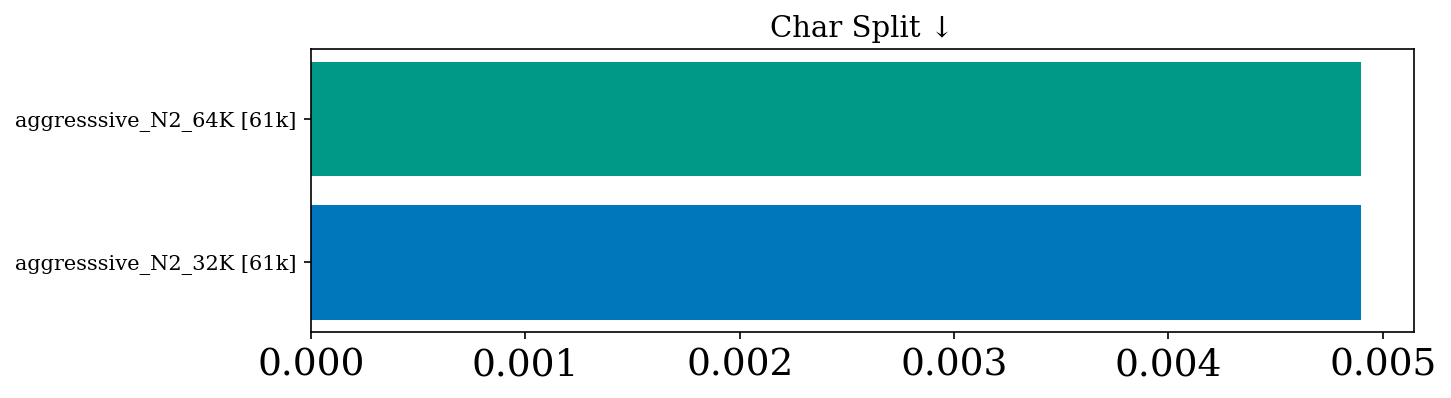
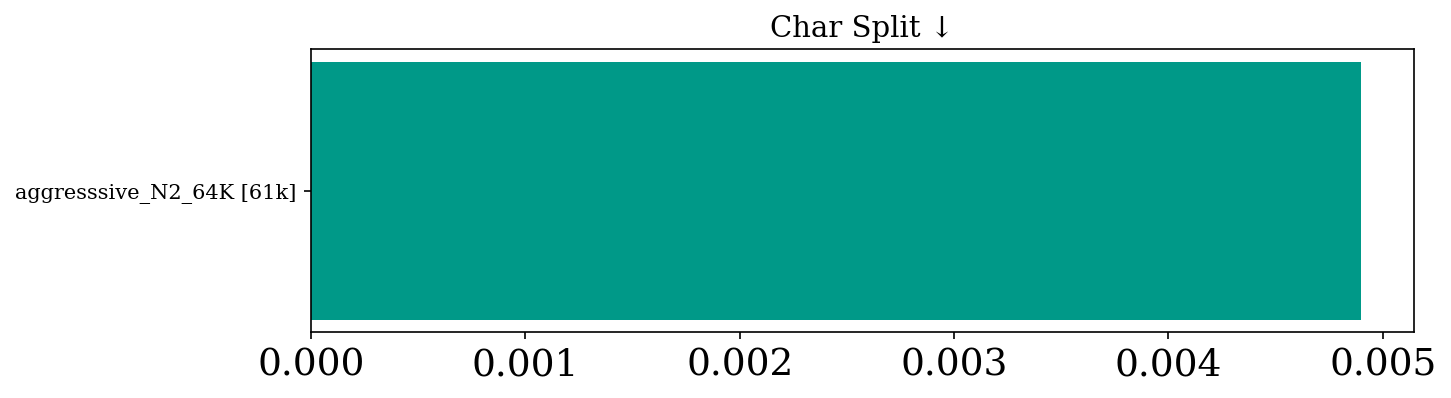
Update RESULTS_flores+_lines.md (2026-03-06 10:01:17)

Changed region(s): [[0.0, 0.4221, 0.9614, 0.8141], [0.0, 0.2714, 0.2171, 0.3317]]

diff --git a/RESULTS_flores+_lines.md b/RESULTS_flores+_lines.md
@@ -1,40 +1,41 @@
 # Tokenizer Evaluation Results
 
-_Last updated: 2026-03-06 09:44:40_
+_Last updated: 2026-03-06 10:01:18_
 
-| Tokenizer | Vocab Size | Fertility | Compression Rate | Vocab Util. | Avg Token Rank | Gini | 3-Digit Align. F1 | Op. Isolation | UTF-8 Integ. | Char Split | Languages | TTR | Shannon Entropy | Dataset | User | Date | AST Align. | Ident. Frag. | Depth Corr. | Pat. Stability | Bound. Cross |
+| Tokenizer | Vocab Size | Fertility ↓ | Compression Rate ↑ | Vocab Util. ↑ | Avg Token Rank ↓ | Gini ↓ | 3-Digit Align. F1 ↑ | Op. Isolation ↑ | UTF-8 Integ. ↑ | Char Split ↓ | Languages | Dataset | User | Date | TTR | Shannon Entropy | AST Align. ↑ | Ident. Frag. ↓ | Depth Corr. ↑ | Pat. Stability ↑ | Bound. Cross |
 | --- | --- | --- | --- | --- | --- | --- | --- | --- | --- | --- | --- | --- | --- | --- | --- | --- | --- | --- | --- | --- | --- |
-| Boundless pairwise aggressive n2 (dkletz, flores+) | 5,033 | 88.335 | 0.013 | 0.644 | 108.7 | 0.082 | --- | 0.047 | --- | --- | 92 | 0.0004 | 7.19 | flores+ | dkletz | 2026-02-22 | --- | --- | --- | --- | --- |
-| Apertus (cmeister747, flores+) | 131,072 | 64.763 | 0.023 | 0.564 | 4318.1 | 0.308 | 0.363 | 0.185 | --- | --- | 92 | 0.0124 | 11.57 | flores+ | cmeister747 | 2026-02-22 | --- | --- | --- | --- | --- |
-| Parity-aware (hybrid) (cmeister747, flores+) | 128,004 | 58.267 | 0.022 | 0.691 | 4640.4 | 0.223 | 0.741 | 0.224 | --- | --- | 92 | 0.0166 | 12.19 | flores+ | cmeister747 | 2026-02-22 | --- | --- | --- | --- | --- |
-| SuperBPE a (cmeister747, flores+) | 130,000 | 46.224 | 0.025 | 0.553 | 9333.4 | 0.106 | 0.767 | 0.339 | --- | --- | 92 | 0.0170 | 14.02 | flores+ | cmeister747 | 2026-02-22 | --- | --- | --- | --- | --- |
-| SuperBPE b (cmeister747, flores+) | 130,000 | 52.158 | 0.024 | 0.593 | 7591.0 | 0.192 | 0.767 | 0.982 | --- | --- | 92 | 0.0161 | 13.28 | flores+ | cmeister747 | 2026-02-22 | --- | --- | --- | --- | --- |
-| PA BPE grouped (cmeister747, flores+) | 120,260 | 47.187 | 0.024 | 0.632 | 8240.1 | 0.064 | 0.700 | 0.224 | --- | --- | 92 | 0.0176 | 13.41 | flores+ | cmeister747 | 2026-02-22 | --- | --- | --- | --- | --- |
-| Qwen 3 (151k) (cmeister747, flores+) | 151,669 | 75.897 | 0.020 | 0.324 | 1699.6 | 0.312 | 0.363 | 0.497 | --- | --- | 92 | 0.0071 | 11.05 | flores+ | cmeister747 | 2026-02-22 | --- | --- | --- | --- | --- |
-| DeepSeek R1 (cmeister747, flores+) | 128,815 | 61.674 | 0.021 | 0.418 | 2910.0 | 0.232 | 0.767 | 0.481 | --- | --- | 92 | 0.0095 | 12.13 | flores+ | cmeister747 | 2026-02-22 | --- | --- | --- | --- | --- |
-| Kimi (160k) (cmeister747, flores+) | 163,840 | 62.820 | 0.020 | 0.244 | 2283.0 | 0.199 | 0.767 | 0.466 | --- | --- | 92 | 0.0069 | 12.09 | flores+ | cmeister747 | 2026-02-22 | --- | --- | --- | --- | --- |
-| GLM (151k) (cmeister747, flores+) | 151,343 | 86.320 | 0.019 | 0.364 | 1631.6 | 0.372 | 0.461 | 0.000 | --- | --- | 92 | 0.0070 | 10.22 | flores+ | cmeister747 | 2026-02-22 | --- | --- | --- | --- | --- |
-| GPT OSS (201k) (cmeister747, flores+) | 200,019 | 47.045 | 0.027 | 0.521 | 9529.8 | 0.169 | 0.767 | 0.371 | --- | --- | 92 | 0.0242 | 13.55 | flores+ | cmeister747 | 2026-02-22 | --- | --- | --- | --- | --- |
-| Classical (meistecl, flores+) | 128,004 | 59.463 | 0.022 | 0.682 | 4663.5 | 0.246 | 0.789 | 0.294 | --- | 0.1337 | 92 | --- | --- | flores+ | meistecl | 2026-03-03 | 0.148 | 0.055 | -0.049 | 0.991 | 0.0574 |
-| Parity-aware (meistecl, flores+) | 128,004 | 59.101 | 0.022 | 0.691 | 4456.6 | 0.220 | 0.736 | 0.294 | --- | 0.1106 | 92 | --- | --- | flores+ | meistecl | 2026-03-03 | 0.188 | 0.082 | -0.049 | 0.991 | 0.0440 |
-| Parity-aware (hybrid) (meistecl, flores+) | 128,004 | 58.267 | 0.022 | 0.691 | 4640.4 | 0.223 | 0.771 | 0.294 | --- | 0.1107 | 92 | --- | --- | flores+ | meistecl | 2026-03-03 | 0.160 | 0.066 | -0.049 | 0.991 | 0.0450 |
-| Gemma 3 (meistecl, flores+) | 262,145 | 46.221 | 0.026 | 0.447 | 9461.6 | 0.126 | 0.451 | 0.509 | --- | 0.0110 | 92 | --- | --- | flores+ | meistecl | 2026-03-03 | 0.088 | 0.030 | -0.091 | 0.965 | 0.0293 |
-| Qwen 3 (meistecl, flores+) | 151,669 | 75.897 | 0.020 | 0.324 | 1699.6 | 0.312 | 0.451 | 0.966 | --- | 0.2422 | 92 | --- | --- | flores+ | meistecl | 2026-03-03 | 0.605 | 0.383 | -0.037 | 0.994 | 0.0561 |
-| Qwen 3.5 (meistecl, flores+) | 248,077 | 53.347 | 0.024 | 0.387 | 5435.7 | 0.204 | 0.451 | 0.966 | --- | 0.0352 | 92 | --- | --- | flores+ | meistecl | 2026-03-03 | 0.680 | 0.381 | -0.037 | 0.994 | 0.0096 |
-| GPT-4 (meistecl, flores+) | 100,261 | 90.200 | 0.018 | 0.302 | 917.5 | 0.362 | 0.793 | 0.966 | --- | 0.4671 | 92 | --- | --- | flores+ | meistecl | 2026-03-03 | 0.605 | 0.383 | -0.037 | 0.994 | 0.0517 |
-| GPT-4o (meistecl, flores+) | 200,000 | 47.045 | 0.027 | 0.522 | 9529.8 | 0.169 | 0.793 | 0.966 | --- | 0.0475 | 92 | --- | --- | flores+ | meistecl | 2026-03-03 | 0.609 | 0.401 | -0.037 | 0.994 | 0.0078 |
-| Mistral-Nemo (meistecl, flores+) | 131,072 | 64.763 | 0.023 | 0.564 | 4318.1 | 0.308 | 0.451 | 0.496 | --- | 0.1525 | 92 | --- | --- | flores+ | meistecl | 2026-03-03 | 0.060 | 0.037 | -0.037 | 0.994 | 0.0171 |
-| DeepSeek R1 (meistecl, flores+) | 128,815 | 62.674 | 0.021 | 0.418 | 2864.6 | 0.229 | 0.793 | 0.496 | --- | 0.0103 | 92 | --- | --- | flores+ | meistecl | 2026-03-03 | 0.000 | --- | -0.037 | 0.994 | 0.0509 |
-| Cohere Command R (meistecl, flores+) | 255,029 | 75.168 | 0.022 | 0.433 | 3397.6 | 0.371 | 0.451 | 0.509 | --- | 0.0008 | 92 | --- | --- | flores+ | meistecl | 2026-03-03 | 0.032 | 0.016 | -0.037 | 0.994 | 0.0474 |
-| Kimi (meistecl, flores+) | 163,840 | 62.820 | 0.020 | 0.244 | 2283.0 | 0.199 | 0.793 | 0.966 | --- | 0.1139 | 92 | --- | --- | flores+ | meistecl | 2026-03-03 | 0.609 | 0.408 | -0.037 | 0.994 | 0.0498 |
-| GLM (meistecl, flores+) | 151,343 | 86.320 | 0.019 | 0.364 | 1631.6 | 0.372 | 0.644 | 0.000 | --- | 0.0000 | 92 | --- | --- | flores+ | meistecl | 2026-03-03 | 0.001 | 0.000 | 0.000 | 1.000 | 0.0000 |
-| GPT OSS (meistecl, flores+) | 200,019 | 47.045 | 0.027 | 0.521 | 9529.8 | 0.169 | 0.793 | 0.966 | --- | 0.0475 | 92 | --- | --- | flores+ | meistecl | 2026-03-03 | 0.609 | 0.401 | -0.037 | 0.994 | 0.0078 |
-| Apertus (meistecl, flores+) | 131,072 | 64.763 | 0.023 | 0.564 | 4318.1 | 0.308 | 0.451 | 0.496 | --- | 0.1525 | 92 | --- | --- | flores+ | meistecl | 2026-03-03 | 0.060 | 0.037 | -0.037 | 0.994 | 0.0171 |
-| SuperBPE default regex (meistecl, flores+) | 130,000 | 46.224 | 0.025 | 0.553 | 9333.4 | 0.106 | 0.793 | 0.407 | --- | 0.0249 | 92 | --- | --- | flores+ | meistecl | 2026-03-03 | 0.225 | 0.028 | -0.037 | 0.994 | 0.0206 |
-| DeepSeek V3 (meistecl, flores+) | 128,815 | 62.674 | 0.021 | 0.418 | 2864.6 | 0.229 | 0.793 | 0.496 | --- | 0.0103 | 92 | --- | --- | flores+ | meistecl | 2026-03-03 | 0.000 | --- | -0.037 | 0.994 | 0.0509 |
-| SuperBPE Apertus regex (meistecl, flores+) | 130,000 | 52.158 | 0.024 | 0.593 | 7591.0 | 0.192 | 0.793 | 0.992 | --- | 0.0139 | 92 | --- | --- | flores+ | meistecl | 2026-03-03 | 0.259 | 0.029 | -0.037 | 0.994 | 0.0085 |
-| SuperBPE qwen regex (meistecl, flores+) | 130,000 | 48.526 | 0.024 | 0.572 | 9524.6 | 0.097 | 0.451 | 0.407 | --- | 0.0332 | 92 | --- | --- | flores+ | meistecl | 2026-03-03 | 0.284 | 0.024 | -0.031 | 0.995 | 0.0292 |
-| SuperBPE math (meistecl, flores+) | 130,000 | 52.985 | 0.024 | 0.543 | 6733.8 | 0.190 | 0.793 | 0.992 | --- | 0.0126 | 92 | --- | --- | flores+ | meistecl | 2026-03-03 | 0.264 | 0.028 | -0.037 | 0.994 | 0.0092 |
-| SuperBPE math new reg (meistecl, flores+) | 130,000 | 46.554 | 0.025 | 0.539 | 8783.4 | 0.112 | 0.891 | 0.263 | --- | 0.0242 | 92 | --- | --- | flores+ | meistecl | 2026-03-03 | 0.230 | 0.027 | -0.037 | 0.994 | 0.0218 |
-| PA BPE grouped (meistecl, flores+) | 120,260 | 47.187 | 0.024 | 0.632 | 8240.1 | 0.064 | 0.722 | 0.294 | --- | 0.0205 | 92 | --- | --- | flores+ | meistecl | 2026-03-03 | 0.159 | 0.067 | -0.049 | 0.991 | 0.0173 |
-| PA BPE grouped math (meistecl, flores+) | 128,260 | 47.533 | 0.024 | 0.606 | 8064.2 | 0.074 | 0.451 | 0.496 | --- | 0.0242 | 92 | --- | --- | flores+ | meistecl | 2026-03-03 | 0.094 | 0.050 | -0.037 | 0.994 | 0.0142 |
+| aggresssive_N2_64K (vkanjira, flores+) | 60,682 | 67.253 | 0.018 | 0.354 | 893.1 | 0.129 | 0.681 | 0.077 | **1.000** | 0.0049 | 92 | flores+ | vkanjira | 2026-03-06 | --- | --- | --- | --- | --- | --- | --- |
+| Boundless pairwise aggressive n2 (dkletz, flores+) | 5,033 | 88.335 | 0.013 | 0.644 | **108.7** | 0.082 | --- | 0.047 | --- | --- | 92 | flores+ | dkletz | 2026-02-22 | 0.0004 | 7.19 | --- | --- | --- | --- | --- |
+| Apertus (cmeister747, flores+) | 131,072 | 64.763 | 0.023 | 0.564 | 4318.1 | 0.308 | 0.363 | 0.185 | --- | --- | 92 | flores+ | cmeister747 | 2026-02-22 | 0.0124 | 11.57 | --- | --- | --- | --- | --- |
+| Parity-aware (hybrid) (cmeister747, flores+) | 128,004 | 58.267 | 0.022 | **0.691** | 4640.4 | 0.223 | 0.741 | 0.224 | --- | --- | 92 | flores+ | cmeister747 | 2026-02-22 | 0.0166 | 12.19 | --- | --- | --- | --- | --- |
+| SuperBPE a (cmeister747, flores+) | 130,000 | 46.224 | 0.025 | 0.553 | 9333.4 | 0.106 | 0.767 | 0.339 | --- | --- | 92 | flores+ | cmeister747 | 2026-02-22 | 0.0170 | 14.02 | --- | --- | --- | --- | --- |
+| SuperBPE b (cmeister747, flores+) | 130,000 | 52.158 | 0.024 | 0.593 | 7591.0 | 0.192 | 0.767 | 0.982 | --- | --- | 92 | flores+ | cmeister747 | 2026-02-22 | 0.0161 | 13.28 | --- | --- | --- | --- | --- |
+| PA BPE grouped (cmeister747, flores+) | 120,260 | 47.187 | 0.024 | 0.632 | 8240.1 | **0.064** | 0.700 | 0.224 | --- | --- | 92 | flores+ | cmeister747 | 2026-02-22 | 0.0176 | 13.41 | --- | --- | --- | --- | --- |
+| Qwen 3 (151k) (cmeister747, flores+) | 151,669 | 75.897 | 0.020 | 0.324 | 1699.6 | 0.312 | 0.363 | 0.497 | --- | --- | 92 | flores+ | cmeister747 | 2026-02-22 | 0.0071 | 11.05 | --- | --- | --- | --- | --- |
+| DeepSeek R1 (cmeister747, flores+) | 128,815 | 61.674 | 0.021 | 0.418 | 2910.0 | 0.232 | 0.767 | 0.481 | --- | --- | 92 | flores+ | cmeister747 | 2026-02-22 | 0.0095 | 12.13 | --- | --- | --- | --- | --- |
+| Kimi (160k) (cmeister747, flores+) | 163,840 | 62.820 | 0.020 | 0.244 | 2283.0 | 0.199 | 0.767 | 0.466 | --- | --- | 92 | flores+ | cmeister747 | 2026-02-22 | 0.0069 | 12.09 | --- | --- | --- | --- | --- |
+| GLM (151k) (cmeister747, flores+) | 151,343 | 86.320 | 0.019 | 0.364 | 1631.6 | 0.372 | 0.461 | 0.000 | --- | --- | 92 | flores+ | cmeister747 | 2026-02-22 | 0.0070 | 10.22 | --- | --- | --- | --- | --- |
+| GPT OSS (201k) (cmeister747, flores+) | 200,019 | 47.045 | **0.027** | 0.521 | 9529.8 | 0.169 | 0.767 | 0.371 | --- | --- | 92 | flores+ | cmeister747 | 2026-02-22 | 0.0242 | 13.55 | --- | --- | --- | --- | --- |
+| Classical (meistecl, flores+) | 128,004 | 59.463 | 0.022 | 0.682 | 4663.5 | 0.246 | 0.789 | 0.294 | --- | 0.1337 | 92 | flores+ | meistecl | 2026-03-03 | --- | --- | 0.148 | 0.055 | -0.049 | 0.991 | 0.0574 |
+| Parity-aware (meistecl, flores+) | 128,004 | 59.101 | 0.022 | 0.691 | 4456.6 | 0.220 | 0.736 | 0.294 | --- | 0.1106 | 92 | flores+ | meistecl | 2026-03-03 | --- | --- | 0.188 | 0.082 | -0.049 | 0.991 | 0.0440 |
+| Parity-aware (hybrid) (meistecl, flores+) | 128,004 | 58.267 | 0.022 | 0.691 | 4640.4 | 0.223 | 0.771 | 0.294 | --- | 0.1107 | 92 | flores+ | meistecl | 2026-03-03 | --- | --- | 0.160 | 0.066 | -0.049 | 0.991 | 0.0450 |
+| Gemma 3 (meistecl, flores+) | 262,145 | **46.221** | 0.026 | 0.447 | 9461.6 | 0.126 | 0.451 | 0.509 | --- | 0.0110 | 92 | flores+ | meistecl | 2026-03-03 | --- | --- | 0.088 | 0.030 | -0.091 | 0.965 | 0.0293 |
+| Qwen 3 (meistecl, flores+) | 151,669 | 75.897 | 0.020 | 0.324 | 1699.6 | 0.312 | 0.451 | 0.966 | --- | 0.2422 | 92 | flores+ | meistecl | 2026-03-03 | --- | --- | 0.605 | 0.383 | -0.037 | 0.994 | 0.0561 |
+| Qwen 3.5 (meistecl, flores+) | 248,077 | 53.347 | 0.024 | 0.387 | 5435.7 | 0.204 | 0.451 | 0.966 | --- | 0.0352 | 92 | flores+ | meistecl | 2026-03-03 | --- | --- | **0.680** | 0.381 | -0.037 | 0.994 | 0.0096 |
+| GPT-4 (meistecl, flores+) | 100,261 | 90.200 | 0.018 | 0.302 | 917.5 | 0.362 | 0.793 | 0.966 | --- | 0.4671 | 92 | flores+ | meistecl | 2026-03-03 | --- | --- | 0.605 | 0.383 | -0.037 | 0.994 | 0.0517 |
+| GPT-4o (meistecl, flores+) | 200,000 | 47.045 | 0.027 | 0.522 | 9529.8 | 0.169 | 0.793 | 0.966 | --- | 0.0475 | 92 | flores+ | meistecl | 2026-03-03 | --- | --- | 0.609 | 0.401 | -0.037 | 0.994 | 0.0078 |
+| Mistral-Nemo (meistecl, flores+) | 131,072 | 64.763 | 0.023 | 0.564 | 4318.1 | 0.308 | 0.451 | 0.496 | --- | 0.1525 | 92 | flores+ | meistecl | 2026-03-03 | --- | --- | 0.060 | 0.037 | -0.037 | 0.994 | 0.0171 |
+| DeepSeek R1 (meistecl, flores+) | 128,815 | 62.674 | 0.021 | 0.418 | 2864.6 | 0.229 | 0.793 | 0.496 | --- | 0.0103 | 92 | flores+ | meistecl | 2026-03-03 | --- | --- | 0.000 | --- | -0.037 | 0.994 | 0.0509 |
+| Cohere Command R (meistecl, flores+) | 255,029 | 75.168 | 0.022 | 0.433 | 3397.6 | 0.371 | 0.451 | 0.509 | --- | 0.0008 | 92 | flores+ | meistecl | 2026-03-03 | --- | --- | 0.032 | 0.016 | -0.037 | 0.994 | 0.0474 |
+| Kimi (meistecl, flores+) | 163,840 | 62.820 | 0.020 | 0.244 | 2283.0 | 0.199 | 0.793 | 0.966 | --- | 0.1139 | 92 | flores+ | meistecl | 2026-03-03 | --- | --- | 0.609 | 0.408 | -0.037 | 0.994 | 0.0498 |
+| GLM (meistecl, flores+) | 151,343 | 86.320 | 0.019 | 0.364 | 1631.6 | 0.372 | 0.644 | 0.000 | --- | **0.0000** | 92 | flores+ | meistecl | 2026-03-03 | --- | --- | 0.001 | **0.000** | **0.000** | **1.000** | 0.0000 |
+| GPT OSS (meistecl, flores+) | 200,019 | 47.045 | 0.027 | 0.521 | 9529.8 | 0.169 | 0.793 | 0.966 | --- | 0.0475 | 92 | flores+ | meistecl | 2026-03-03 | --- | --- | 0.609 | 0.401 | -0.037 | 0.994 | 0.0078 |
+| Apertus (meistecl, flores+) | 131,072 | 64.763 | 0.023 | 0.564 | 4318.1 | 0.308 | 0.451 | 0.496 | --- | 0.1525 | 92 | flores+ | meistecl | 2026-03-03 | --- | --- | 0.060 | 0.037 | -0.037 | 0.994 | 0.0171 |
+| SuperBPE default regex (meistecl, flores+) | 130,000 | 46.224 | 0.025 | 0.553 | 9333.4 | 0.106 | 0.793 | 0.407 | --- | 0.0249 | 92 | flores+ | meistecl | 2026-03-03 | --- | --- | 0.225 | 0.028 | -0.037 | 0.994 | 0.0206 |
+| DeepSeek V3 (meistecl, flores+) | 128,815 | 62.674 | 0.021 | 0.418 | 2864.6 | 0.229 | 0.793 | 0.496 | --- | 0.0103 | 92 | flores+ | meistecl | 2026-03-03 | --- | --- | 0.000 | --- | -0.037 | 0.994 | 0.0509 |
+| SuperBPE Apertus regex (meistecl, flores+) | 130,000 | 52.158 | 0.024 | 0.593 | 7591.0 | 0.192 | 0.793 | **0.992** | --- | 0.0139 | 92 | flores+ | meistecl | 2026-03-03 | --- | --- | 0.259 | 0.029 | -0.037 | 0.994 | 0.0085 |
+| SuperBPE qwen regex (meistecl, flores+) | 130,000 | 48.526 | 0.024 | 0.572 | 9524.6 | 0.097 | 0.451 | 0.407 | --- | 0.0332 | 92 | flores+ | meistecl | 2026-03-03 | --- | --- | 0.284 | 0.024 | -0.031 | 0.995 | 0.0292 |
+| SuperBPE math (meistecl, flores+) | 130,000 | 52.985 | 0.024 | 0.543 | 6733.8 | 0.190 | 0.793 | 0.992 | --- | 0.0126 | 92 | flores+ | meistecl | 2026-03-03 | --- | --- | 0.264 | 0.028 | -0.037 | 0.994 | 0.0092 |
+| SuperBPE math new reg (meistecl, flores+) | 130,000 | 46.554 | 0.025 | 0.539 | 8783.4 | 0.112 | **0.891** | 0.263 | --- | 0.0242 | 92 | flores+ | meistecl | 2026-03-03 | --- | --- | 0.230 | 0.027 | -0.037 | 0.994 | 0.0218 |
+| PA BPE grouped (meistecl, flores+) | 120,260 | 47.187 | 0.024 | 0.632 | 8240.1 | 0.064 | 0.722 | 0.294 | --- | 0.0205 | 92 | flores+ | meistecl | 2026-03-03 | --- | --- | 0.159 | 0.067 | -0.049 | 0.991 | 0.0173 |
+| PA BPE grouped math (meistecl, flores+) | 128,260 | 47.533 | 0.024 | 0.606 | 8064.2 | 0.074 | 0.451 | 0.496 | --- | 0.0242 | 92 | flores+ | meistecl | 2026-03-03 | --- | --- | 0.094 | 0.050 | -0.037 | 0.994 | 0.0142 |
